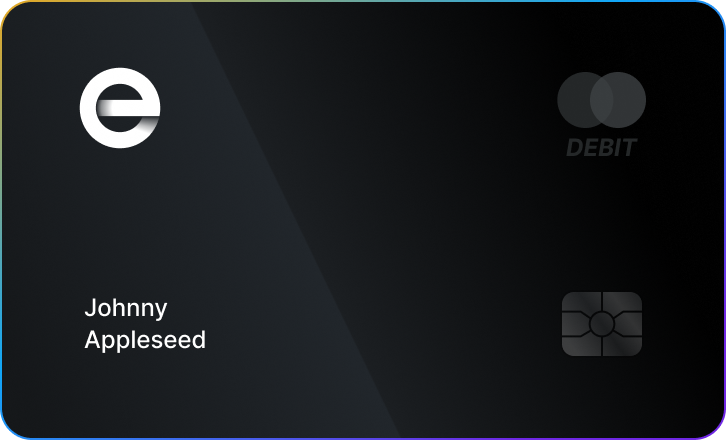
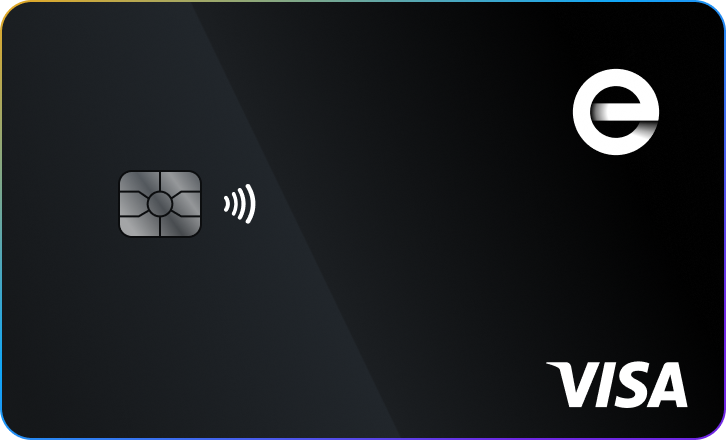
Updated card

diff --git a/index.html b/index.html
@@ -115,7 +115,7 @@
                     <p id="disclosure-text">
                         Banking services provided by Evolve Bank and Trust, Members FDIC. 
 
-                        The Envelope card is issued by Evolve Bank and Trust, Member FDIC, pursuant to license by Mastercard International. © Copyright 2021 Envelope Money, Inc.
+                        The Envelope card is issued by Evolve Bank and Trust, Member FDIC, pursuant to license by Visa. © Copyright 2021 Envelope Money, Inc.
                     </p>
                 </div>
             </div>

diff --git a/css/styles.css b/css/styles.css
@@ -415,6 +415,9 @@ body.loaded .fadein {
 
 
 
+#disclosure-text {
+	margin-bottom: 25px;
+}
 
 
 
@@ -496,10 +499,6 @@ body.loaded .fadein {
 
 	#image-envelopes {
 	    left: -110px;
-	}
-
-	#disclosure-text {
-		margin-bottom: 25px;
 	}
 
 	#main-container {
